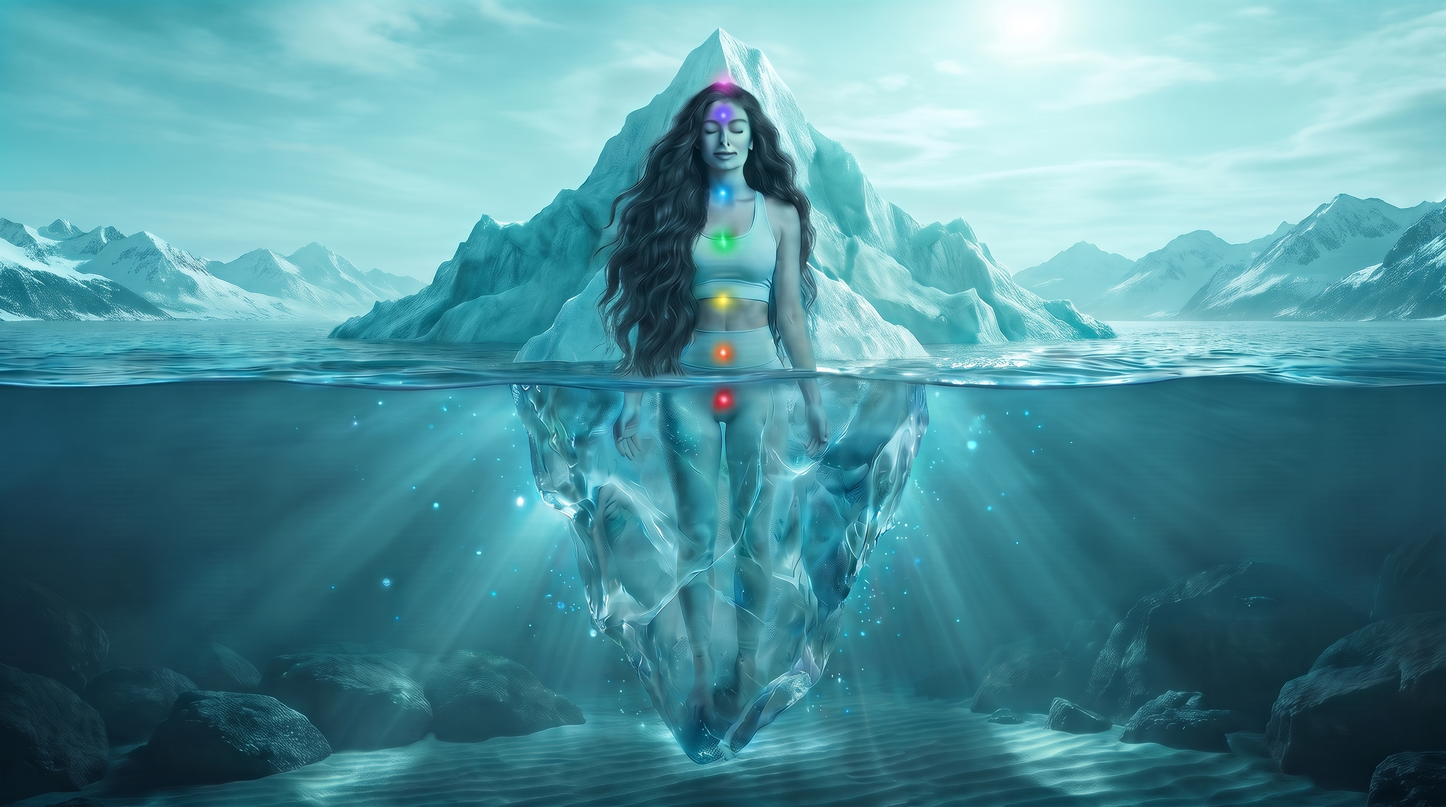
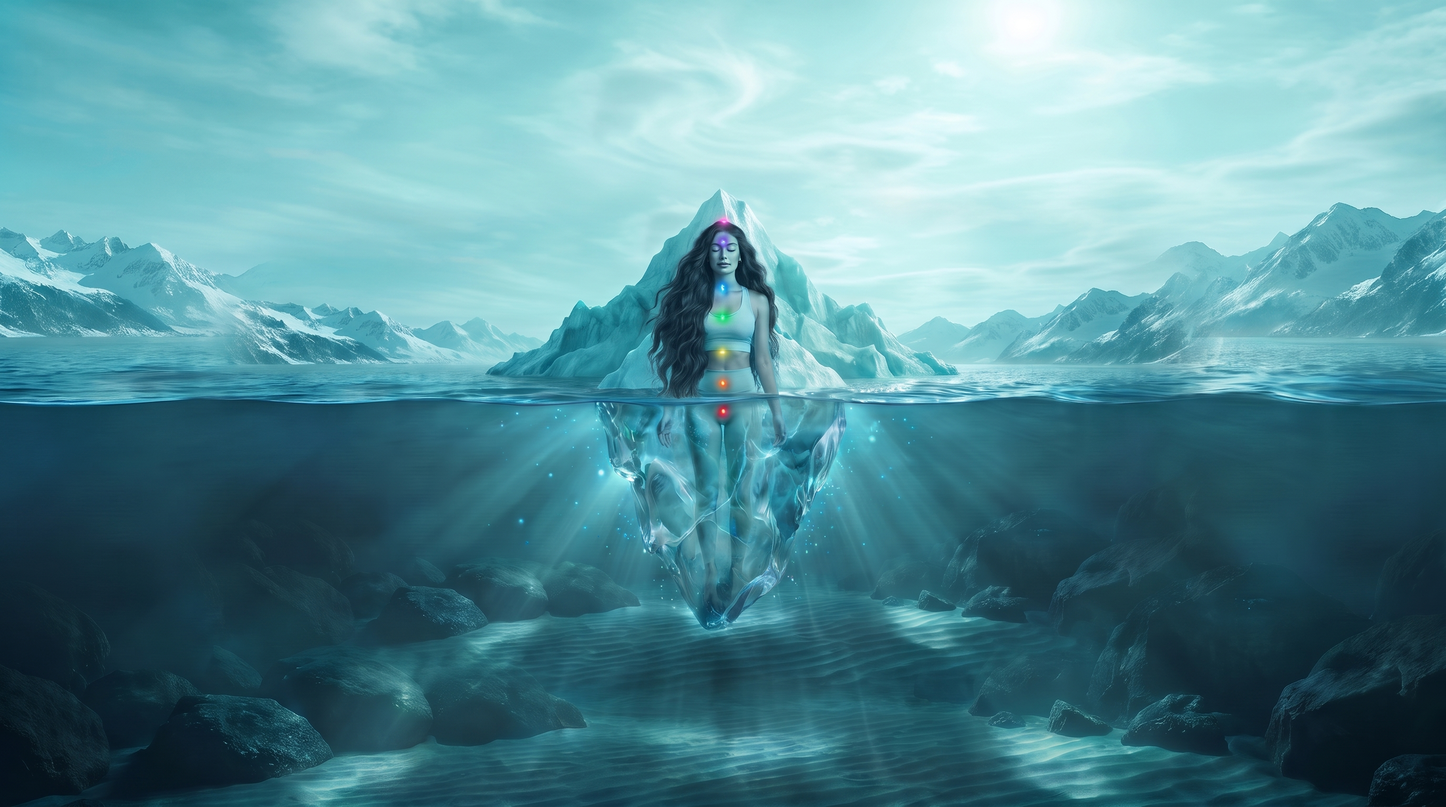
Cena mais afastada (mais céu e fundo do mar), seção menor com círculo de ícones ajustado; remove imagens não usadas

diff --git a/index.html b/index.html
@@ -165,9 +165,9 @@ nav { background: rgba(0, 38, 44, .92); border-bottom: 1px solid rgba(255, 255, 
 nav .btn-primary, .hero .btn-primary, .cta .btn-primary { background: linear-gradient(90deg, #00dcc0, #7af0dc); border-color: transparent; color: #00262c; font-weight: 600; }
 nav .btn-primary:hover, .hero .btn-primary:hover, .cta .btn-primary:hover { background: #7af0dc; }
 .vsl { border-color: rgba(255, 255, 255, .15); }
-#pilares { padding: 0; background: #00454d url("assets/cena-mulher-final.jpg") center / cover no-repeat; }
+#pilares { padding: clamp(56px, 8vw, 110px) 16px; background: #fff; }
 /* Cena dos pilares: layout da referência; ícones e textos são elementos da página */
-.stage { container-type: inline-size; position: relative; width: 100%; aspect-ratio: 16 / 9; margin: 0; background: none; }
+.stage { container-type: inline-size; position: relative; width: min(1120px, 100%); margin: 0 auto; aspect-ratio: 16 / 9; border-radius: 20px; background: #00454d url("assets/cena-mulher-final.jpg") center / cover no-repeat; box-shadow: var(--shadow-2); }
 .stage svg.lines { position: absolute; inset: 0; width: 100%; height: 100%; pointer-events: none; }
 .stage .tx { position: absolute; color: #fff; pointer-events: none; text-shadow: 0 2px 14px rgba(0, 25, 30, .55); }
 .stage .tx h3 { font: 700 3.3cqw/.95 var(--font); letter-spacing: -.02em; text-transform: uppercase; color: #fff; }
@@ -183,7 +183,7 @@ nav .btn-primary:hover, .hero .btn-primary:hover, .cta .btn-primary:hover { back
 .node .dot svg { width: 56%; height: 56%; fill: none; stroke: currentColor; stroke-width: 1.6; stroke-linecap: round; stroke-linejoin: round; }
 .node .dot em { position: absolute; top: -.5cqw; left: -.5cqw; min-width: 18px; width: 1.9cqw; height: 1.9cqw; border-radius: 50%; background: var(--brand); color: #00262c; font: 700 max(10px, 1cqw)/1.9cqw var(--font); text-align: center; font-style: normal; }
 .node:hover .dot, .node:focus-within .dot, .node.open .dot { transform: scale(1.35); background: var(--brand); color: #00262c; }
-.node .lab { display: block; margin: .5cqw auto 0; width: max-content; max-width: 10.5cqw; text-align: center; font: 600 max(10.5px, .98cqw)/1.15 var(--font); letter-spacing: 0; color: #fff; background: rgba(0, 38, 44, .6); padding: .25cqw .8cqw; border-radius: 1cqw; transition: opacity .2s; }
+.node .lab { display: block; margin: .5cqw auto 0; width: max-content; max-width: 9cqw; text-align: center; font: 600 max(10px, .85cqw)/1.15 var(--font); letter-spacing: 0; color: #fff; background: rgba(0, 38, 44, .6); padding: .25cqw .8cqw; border-radius: 1cqw; transition: opacity .2s; }
 .node:hover .lab, .node:focus-within .lab, .node.open .lab { opacity: 0; }
 .node .pop { position: absolute; top: calc(100% + 14px); left: 50%; width: 280px; transform: translate(-50%, 6px); opacity: 0; visibility: hidden; transition: opacity .2s, transform .2s; background: rgba(0, 38, 44, .97); border: 1px solid var(--brand); border-radius: 14px; padding: 14px 16px 16px; color: #fff; text-align: left; box-shadow: var(--shadow-2); }
 .node .pop b { display: block; font: 700 16px/1.25 var(--font); color: var(--brand); margin-bottom: 6px; }
@@ -193,18 +193,16 @@ nav .btn-primary:hover, .hero .btn-primary:hover, .cta .btn-primary:hover { back
 .node.r .pop { left: auto; right: 0; transform: translate(0, 6px); }
 .node.l:hover .pop, .node.l:focus-within .pop, .node.l.open .pop, .node.r:hover .pop, .node.r:focus-within .pop, .node.r.open .pop { transform: none; }
 .node.up .pop { top: auto; bottom: calc(100% + 14px); }
-.node.top { display: flex; flex-direction: column-reverse; align-items: center; }
-.node.top .lab { margin: 0 0 .5cqw; }
+.node.top .lab { position: absolute; top: 50%; margin: 0; transform: translateY(-50%); }
+.node.top.tl .lab { right: calc(100% + .6cqw); }
+.node.top.tr .lab { left: calc(100% + .6cqw); }
 .stage-grid, .stage-info { display: none; }
 @media (max-width: 760px) {
-  #pilares { background-position: 50% 0; background-size: auto 62vw; background-size: cover; }
-  .stage { aspect-ratio: 4 / 5; }
+  #pilares { padding: 24px 16px 8px; }
+  .stage { aspect-ratio: 4 / 5; border-radius: 16px; }
     .stage svg.lines, .stage .blk, .node { display: none; }
   .stage .tx { left: 5% !important; top: auto !important; bottom: 5%; }
   .stage .tx h3 { font-size: 9cqw; } .stage .tx p { font-size: 4cqw; max-width: 60cqw; }
-  #pilares { background: var(--brand-dark); }
-  #pilares::before { content: ""; display: block; aspect-ratio: 4 / 5; position: absolute; left: 0; right: 0; top: 0; background: url("assets/cena-mulher-final.jpg") 50% 50% / cover no-repeat; }
-  .stage { position: relative; }
   .stage-grid { display: grid; grid-template-columns: repeat(6, 1fr); gap: 10px; margin: 12px 0; }
   .stage-grid button { position: relative; aspect-ratio: 1; border-radius: 50%; border: 2px solid var(--brand); background: var(--brand-dark); color: var(--brand); display: grid; place-items: center; padding: 0; cursor: pointer; }
   .stage-grid button svg { width: 56%; height: 56%; fill: none; stroke: currentColor; stroke-width: 1.6; stroke-linecap: round; stroke-linejoin: round; }
@@ -240,7 +238,7 @@ nav .btn-primary:hover, .hero .btn-primary:hover, .cta .btn-primary:hover { back
 .hs-card.dark p { color: rgba(255, 255, 255, .8); }
 .hs-card .big { position: absolute; right: 18px; bottom: -14px; font: 700 130px/1 var(--font); letter-spacing: -.04em; color: currentColor; opacity: .07; pointer-events: none; }
 /* modo preso: a rolagem vertical empurra a trilha para a direita */
-.js .hscroll.pinned .hs-sticky { position: sticky; top: 0; height: 100vh; align-content: center; gap: 18px; padding: 72px 0 24px; overflow: hidden; }
+.js .hscroll.pinned .hs-sticky { position: sticky; top: 0; height: 100vh; align-content: start; gap: 18px; padding: 96px 0 24px; overflow: hidden; }
 .js .hscroll.pinned .hs-viewport { overflow: visible; }
 .js .hscroll.pinned .hs-track { will-change: transform; }
 .trust { background: var(--brand-dark); border: 0; }
@@ -520,7 +518,7 @@ const TEXTOS = [
   const CURTOS = ["Genética e epigenética", "Conflitos emocionais", "Toxinas ambientais", "Hidratação e água", "Metais tóxicos", "Saúde gastrointestinal", "Fungos e parasitas", "Carências nutricionais", "Imunidade e circulação", "Saúde mitocondrial", "Tríade hormonal", "Conflitos sistêmicos"];
   // [x do ícone, y do ícone, x do ponto, y do ponto] numa grade de 1600 x 900
   // 12 ícones em um círculo perfeito (grade 1600 x 900, círculo no centro da mulher)
-  const CX = 800, CY = 470, R = 380, RD = 190;
+  const CX = 800, CY = 465, R = 355, RD = 175;
   const POS = Array.from({ length: 12 }, (_, i) => {
     const a = (-105 + i * 30) * Math.PI / 180, c = Math.cos(a), sn = Math.sin(a);
     return [CX + R * c, CY + R * sn, CX + RD * c, CY + RD * sn];
@@ -549,10 +547,10 @@ const TEXTOS = [
     c.setAttribute("cx", tx); c.setAttribute("cy", ty); c.setAttribute("r", "7"); c.setAttribute("fill", "#00dcc0");
     svg.append(c);
     const n = document.createElement("div");
-    n.className = "node" + (x < 500 ? " l" : x > 1100 ? " r" : "") + (y > 650 ? " up" : "") + (y < 200 ? " top" : "");
+    n.className = "node" + (x < 500 ? " l" : x > 1100 ? " r" : "") + (y > 650 ? " up" : "") + (y < 200 ? " top " + (x < 800 ? "tl" : "tr") : "");
     n.style.left = (x / 16).toFixed(2) + "%"; n.style.top = (y / 9).toFixed(2) + "%";
     n.innerHTML = '<button class="dot" type="button" aria-label="' + (i + 1) + ". " + nome + '"><svg viewBox="0 0 24 24" aria-hidden="true"><use href="#i' + (i + 1) + '"/></svg><em>' + (i + 1) + '</em></button><span class="lab"></span><div class="pop" role="tooltip"><b></b><span></span></div>';
-    n.querySelector(".lab").textContent = (i + 1) + ". " + CURTOS[i];
+    n.querySelector(".lab").textContent = CURTOS[i];
     n.querySelector(".pop b").textContent = (i + 1) + ". " + nome;
     n.querySelector(".pop span").textContent = TEXTOS[i];
     n.addEventListener("mouseenter", () => mostrar(i));
@@ -578,7 +576,7 @@ const TEXTOS = [
     ".table-wrap", ".offer .center", ".card", ".step", ".cta .wrap > *", "footer .wrap > *"];
   const els = [];
   alvos.forEach(sel => document.querySelectorAll(sel).forEach(e => {
-    if (e.classList.contains("reveal")) return;
+    if (e.classList.contains("reveal") || e.closest(".hscroll")) return;
     const irmaos = [...e.parentElement.children].filter(c => c.matches(sel));
     e.style.setProperty("--d", Math.min(irmaos.indexOf(e), 6) * 80 + "ms");
     e.classList.add("reveal"); els.push(e);
